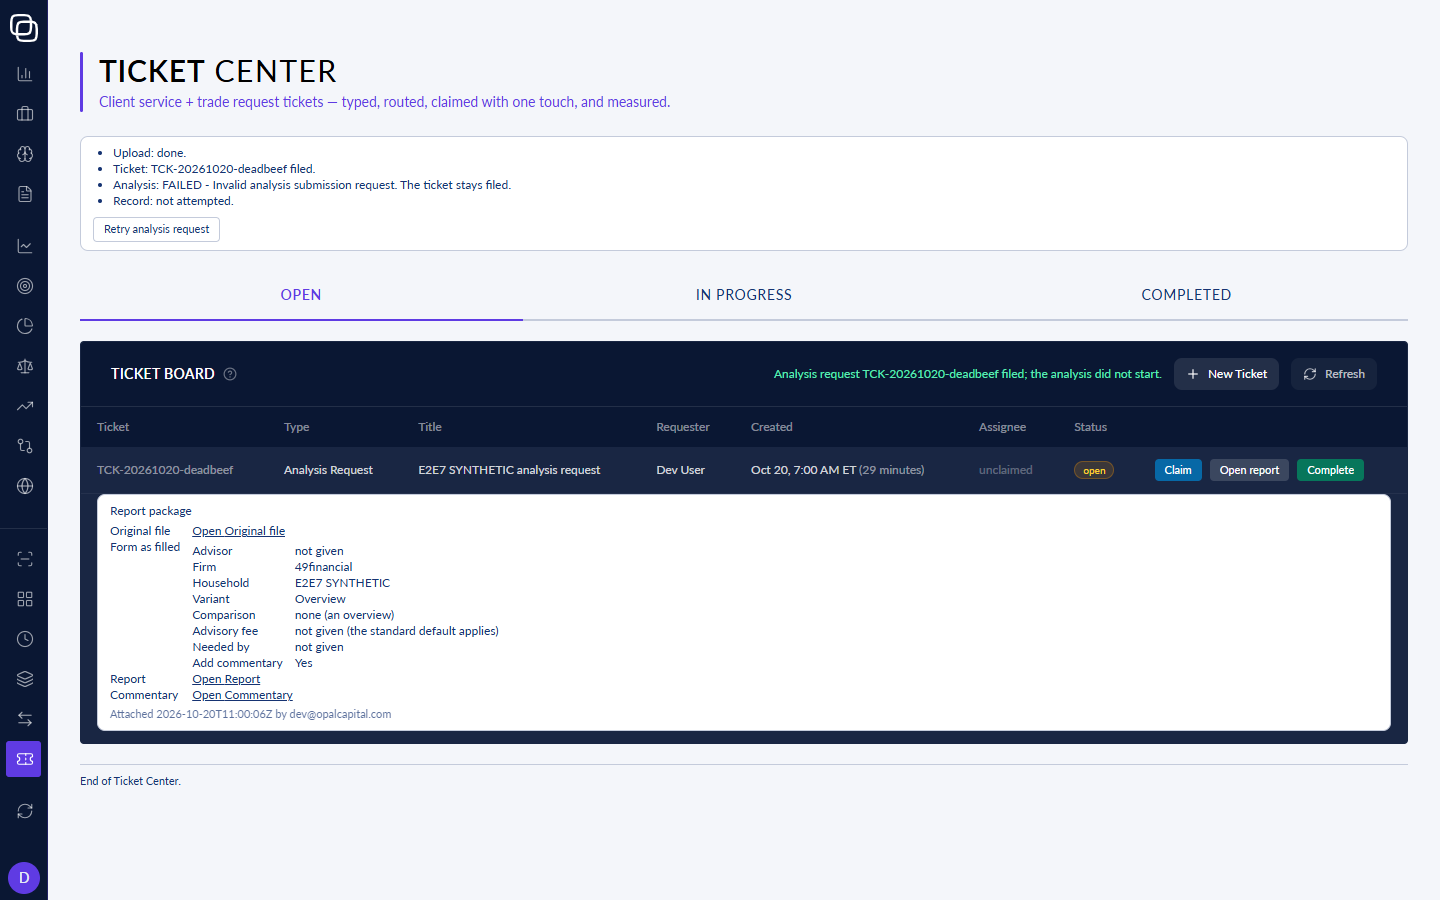
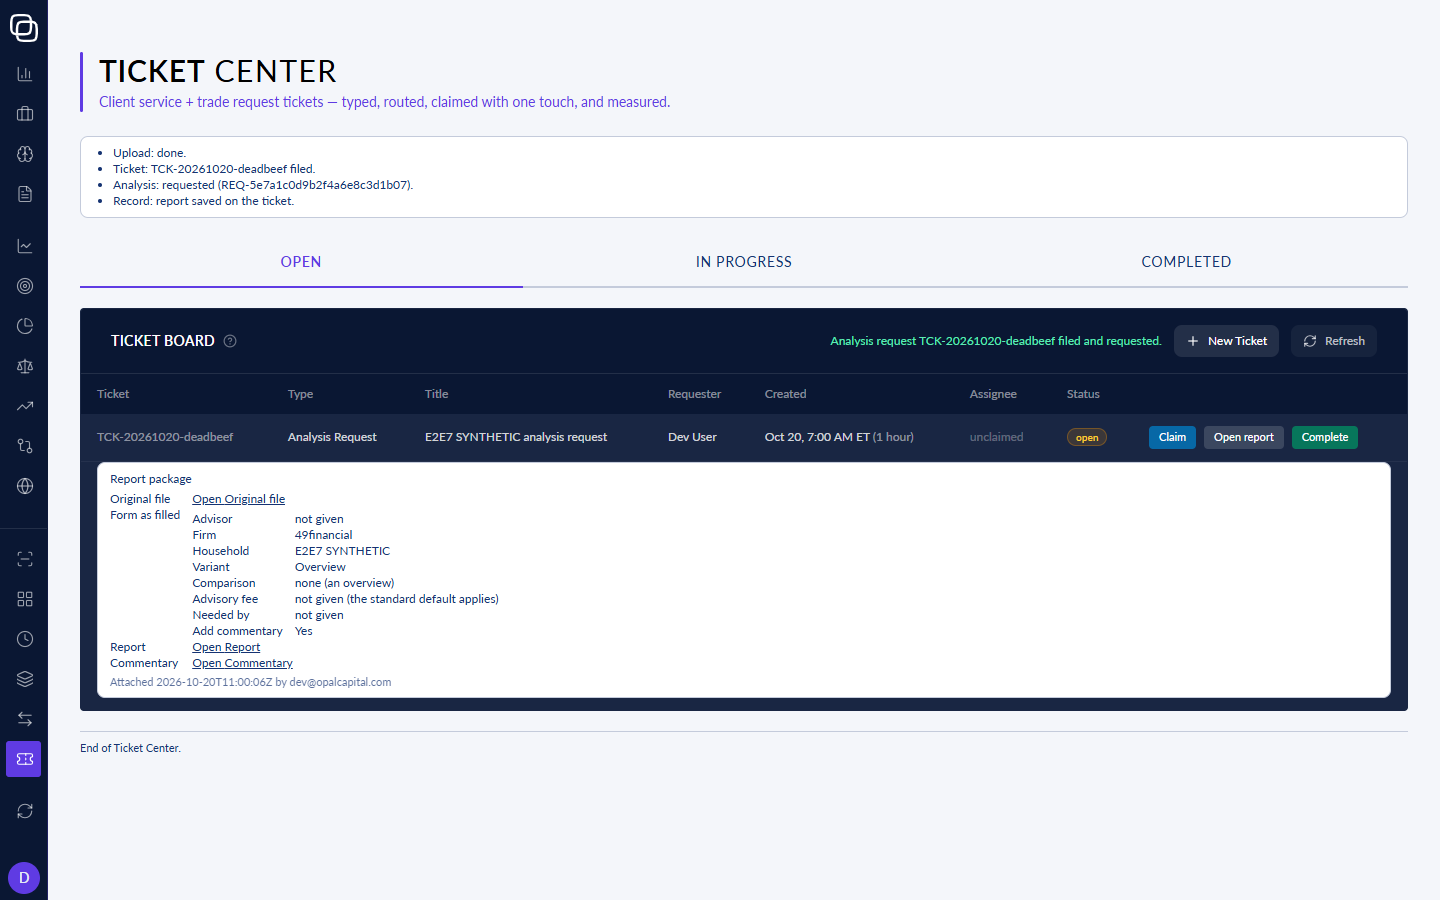
deliverable(IRPT_ANLREQ AR-y-454, 0.9.0_WK_IRPT_ANLREQ~323): rerun the run 7 browser leg against the fix branch e9ca1106dd (the page's analysis submit now sends); composite AC1 OK with four writes, AC2 BAD at b3, leak control 0
Tree: cand/dell2/anlreq-submission-guard-commentary @e9ca1106dd9f85a1f5cb08fa52c89c52a53ed4cd on origin/PROD f48e09ddf95e (numstat: two files). Build RC 0.

Composite: B2 files the ticket and the REQ id, B3 shows the report face (headings 1, value yes). The no-report fixture prints B-LEG-OFFLINE-BAD b3 face=no. Standalone B3 controls agree. Determinism: two runs match after the time mask.

The earlier BEFORE evidence (plain PROD: the page refused the analysis submit) is kept in PAGE_NOTES section 4 item 1.

Push state: LOCAL on wk-IRPT_ANLREQ-323.

Changed region(s): [[0.0312, 0.28, 1.0, 0.8711], [0.0625, 0.1867, 0.3438, 0.28]]

diff --git a/org/missions/D9/IRPT/IRPT_ANLREQ/deliverables/0.9.0_WK_IRPT_ANLREQ~323/PAGE_NOTES.md b/org/missions/D9/IRPT/IRPT_ANLREQ/deliverables/0.9.0_WK_IRPT_ANLREQ~323/PAGE_NOTES.md
@@ -1,23 +1,27 @@
 # PAGE_NOTES -- run 7 browser leg, proved offline (0.9.0_WK_IRPT_ANLREQ~323, cell AR-y-454)
 
-**Read this before the GO.** The page on the PROD tip cannot complete step B2 of ADDENDUM 9 section 2: it files the
-ticket, but it never sends the analysis request. The live run must not be pressed until surprise row
-`IRPT_ANLREQ-D2-W323-S1` (BLOCKING, ARMED) is dispositioned.
+**Read this before the GO.** The proof now runs against the fix branch `cand/dell2/anlreq-submission-guard-commentary`
+at `e9ca1106dd9f85a1f5cb08fa52c89c52a53ed4cd` (one commit on origin/PROD `f48e09ddf95e`), not plain PROD. On plain PROD the
+page cannot complete B2 (surprise `IRPT_ANLREQ-D2-W323-S1`, BLOCKING, ARMED; the issuer owns the disposition). With the
+fix in the tree the offline composite reaches B3 (section 5). The live run must still be pressed only after the fix is
+deployed to PROD.
 
 ## 1. What was built and against what
 
-- Tree: `portal` at `origin/PROD` `f48e09ddf95e` (worktree `C:/dev/wk-irpt-anlreq-323/portal`, node_modules linked).
-- Build: `bun run build` (= `tsc -b && vite build --configLoader runner`), RC 0, 12.35 s. Output in `portal/dist`
-  (gitignored in the portal submodule). Nothing was committed in the portal.
-- Instrument: `run7_browser_leg.mjs` drives the page's own controls with `playwright-core` (Edge, headless) against
-  the build served from disk. It copies `serveFromDist` from `portal/scripts/ui-dist.mjs` and imports nothing else
-  from the portal tree. `--token-file` sends a real bearer as the session accessToken, the way ui-smoke `--token` does.
-- Offline: no network, no AWS, no push, no deploy. Every API answer is in `fixtures_offline.json` (synthetic:
-  household `E2E7 SYNTHETIC`, tickers `SYNTH-*`, values such as 12.5, request and ticket ids of the cell's shapes).
-- Output contract: stdout carries closed lines only (B1, B2, B3, CALLS, B-LEG-*). No URL, token, header or file
-  content is printed. `RUN7_DEBUG=1` adds page console lines and must not be set for the live run.
+- Tree: the portal worktree `C:/dev/wk-irpt-anlreq-323/portal`, detached at `e9ca1106dd` (read-only; nothing committed
+  there). `git diff --numstat f48e09ddf95e HEAD` lists exactly two files: `src/pages/InvestorReporting/contracts/submission-request.ts`
+  (+2 -1) and `src/pages/InvestorReporting/__tests__/submission-request.test.ts` (+40 -0).
+- Build: `bun run build` (= `tsc -b && vite build --configLoader runner`), RC 0, 11.71 s. Output in `portal/dist`
+  (gitignored in the portal submodule).
+- Instrument: `run7_browser_leg.mjs` drives the page's own controls with `playwright-core` (Edge, headless) against the
+  build served from disk. It copies `serveFromDist` from `portal/scripts/ui-dist.mjs` and imports nothing else from the
+  portal tree. `--token-file` sends a real bearer as the session accessToken, the way ui-smoke `--token` does.
+- Offline: no network, no AWS, no push, no deploy. Every API answer is in `fixtures_offline.json` (synthetic: household
+  `E2E7 SYNTHETIC`, tickers `SYNTH-*`, values such as 12.5, request and ticket ids of the cell's shapes).
+- Output contract: stdout carries closed lines only (B1, B2, B3, CALLS, B-LEG-*). No URL, token, header or file content
+  is printed. `RUN7_DEBUG=1` adds page console lines and must not be set for the live run.
 
-## 2. Accessible names (read at f48e09dd)
+## 2. Accessible names (read at e9ca1106; unchanged from f48e09dd)
 
 | step | control | accessible name / selector | source |
 |---|---|---|---|
@@ -40,64 +44,73 @@ The run7 script finds: `New Ticket`, the analysis type select (by its option val
 `Household`, the title by placeholder, `Holdings file`, `File Analysis Request` (exact), `button[data-slot="open-report"]`
 on the row whose text holds the ticket id, and `[data-slot="opened-report"]`. A missing control exits `B-LEG-BAD <phase>`.
 
-## 3. Call sequence observed offline (f48e09dd, fixtures_offline.json)
+## 3. Call sequence observed offline (e9ca1106, fixtures_offline.json)
 
 Board load (shell and board, before any form):
 `GET /api/scoped/tickets?status=open`, `GET /api/scoped/tickets/metrics`, and shell reads (`GET /api/scoped/portal-content`,
 `GET /api/scoped/advisor-intelligence/platinum/firm/*.json`), which the CALLS lines show and which are not the form.
 
-Form open (staff): `POST /api/scoped/investor-reporting/directory/resolve` (Global context, read when the form opens;
-read again on a re-render). The model catalogue is a static list: no call (AR-y-419). `GET .../analysis/comparisons` is
-read only when Other ETFs is typed; not exercised.
+Form open (staff): `POST /api/scoped/investor-reporting/directory/resolve` (Global context, read when the form opens).
+The model catalogue is a static list: no call (AR-y-419). `GET .../analysis/comparisons` is read only when Other ETFs is
+typed; not exercised.
 
-B2 filing, as the page makes it:
-1. `POST /api/scoped/investor-reporting/analysis/inputs` (upload; answer NORMALIZED). Observed.
-2. `POST /api/scoped/tickets` (ticket create, source `ticketcenter:i1`). Observed; the ticket id comes back.
-3. `POST /api/scoped/investor-reporting/analysis` (analysis submit). **NOT sent on f48e09dd** (surprise S1). The page
-   shows `Analysis: FAILED - Invalid analysis submission request.` and the ticket stays filed with no report.
-4. `POST /api/scoped/tickets/{id}/report` (record the REQ id on the ticket). Not reached.
+B2 filing, as the page makes it (the four writes, in order; the composite's `b2_calls` names them):
+1. `POST /api/scoped/investor-reporting/analysis/inputs` (upload; answer NORMALIZED). `analysis-input-upload`.
+2. `POST /api/scoped/tickets` (ticket create, source `ticketcenter:i1`). `ticket-create`.
+3. `POST /api/scoped/investor-reporting/analysis` (analysis submit, body with `commentary_requested: true`; the guard now
+   admits it). `analysis-request`. Answer: the REQ id, read into the B2 line.
+4. `POST /api/scoped/tickets/{id}/report` (record the REQ id on the ticket). `ticket-report`.
 
 B3 (Open report): `GET /api/scoped/investor-reporting/analysis/{requestId}/sections?selected_tenant=..&ticket_id=..`.
-Observed in the positive standalone control; answered by the fixture.
 
 ## 4. Where the page differs from ADDENDUM 9 section 2 (the issuer reads these before the GO)
 
-1. **B2 analysis step (BLOCKING, surprise S1).** The addendum says the page performs the upload and the analysis
-   request. On f48e09dd it performs the upload and the ticket create, then refuses the analysis submit client-side:
-   `analysisBody` adds `commentary_requested: true`, and `readSubmissionRequest` admits only the required keys plus
-   `input_id` and `ticket_id`. The ticket is filed with no REQ id, no report_ref, and therefore no Open report control
-   for B3. The Retry analysis request path calls the same submit (read from source; not exercised live). Under the
-   addendum's own terms this is a STOP at B2 naming the page's words.
-2. **Four writes, not three (surprise S2).** upload, ticket create, analysis submit, and the record of the report id on
-   the ticket (`POST .../tickets/{id}/report`). The composite prints the names the page actually makes.
-3. **No Keep control (surprise S3).** The symbol hint presses are `Yes`, `Replace` and `No`. The addendum's "no Keep"
-   means no press of a hint control. These offline fixtures never produce a finding, so no hint control was shown.
+1. **B2 analysis step: defect found, fixed on the branch (surprise S1, BLOCKING, ARMED; disposition the issuer's).**
+   ADDENDUM 9 says the page performs the upload and the analysis request. On plain PROD (f48e09ddf95e) it did the upload
+   and the ticket create, then refused the analysis submit client-side. Before the fix, the run's B2 line and page words
+   were (kept as evidence):
+   `B2 filed ok ticket=TCK-20261020-deadbeef req=none at=11:28:56Z` followed by
+   `B-LEG-OFFLINE-BAD b2 the ticket is filed but the analysis request was not sent the page showed Analysis FAILED - Invalid analysis submission request`.
+   The CALLS lines held `POST .../analysis/inputs` and `POST /api/scoped/tickets` only. Cause: `analysisBody` (analysisRequest.ts 651-667)
+   adds `commentary_requested: true`, and `readSubmissionRequest` (contracts/submission-request.ts) admitted only the
+   required keys plus `input_id` and `ticket_id`, so the TypeError refused the body before any POST. The ticket was filed with
+   no REQ id, no report_ref and therefore no Open report control for B3.
+   After the fix (e9ca1106: the allowed set gains `commentary_requested`, and a non-boolean value is refused): the analysis
+   submit is sent, B2 reads `req=REQ-5e7a1c0d9b2f4a6e8c3d1b07`, the record POST is made, and B3 finds the Open report
+   control. The Retry analysis request path calls the same submit and is fixed by the same change (by reading).
+2. **Four writes, not three (surprise S2).** upload, ticket create, analysis submit, and the record of the report id on the
+   ticket (`POST .../tickets/{id}/report`). The composite prints the four names the page actually makes:
+   `b2_calls=analysis-input-upload,ticket-create,analysis-request,ticket-report`.
+3. **No Keep control (surprise S3).** The symbol hint presses are `Yes`, `Replace` and `No`. The addendum's "no Keep" means
+   no press of a hint control. These offline fixtures never produce a finding, so no hint control was shown.
 4. **Submit label.** The press is `File Analysis Request`; the addendum's word "submit" is the same control.
-5. **New Ticket defaults to Service Request for staff.** The operator chooses Analysis Request first (the addendum says
-   the same, so this is a note, not a difference).
+5. **New Ticket defaults to Service Request for staff.** The operator chooses Analysis Request first (the addendum says the
+   same, so this is a note, not a difference).
 6. **Advisor.** Labelled optional for staff through the placeholder `Advisor (optional)`: matches B1.
 7. **No report-type and no commentary control on the form.** Matches B1 (report_type=absent, commentary=absent).
-8. **Firm chooser.** Lists three firms in the offline run: `49 Financial`, `Cottonwood Capital Advisors`,
-   `Inflection Wealth Management` (the labels come from `firmDisplayNameFor` because the fixture scope names none).
-   The PROD labels may differ; not checked live.
+8. **Firm chooser.** Lists three firms offline: `49 Financial`, `Cottonwood Capital Advisors`, `Inflection Wealth Management`
+   (the labels come from `firmDisplayNameFor` because the fixture scope names none). The PROD labels may differ; not
+   checked live.
 9. **Models.** Five at first paint (static list, no call). Matches B1.
 10. **Holdings bytes.** The page reads the file in the browser and sends its bytes in the upload body. The addendum's
     "sha256 printed" is the operator's step: this script prints no file content and no hash.
-11. **B3 needs report_ref.** Open report exists only on a ticket that carries a report_ref. Because of S1, a live B3 on
-    the ticket of this run would find no control and exit `B-LEG-BAD b3`.
+11. **B3 needs report_ref.** Open report exists only on a ticket that carries a report_ref, which the record step sets. On
+    plain PROD (surprise S1) a live B3 would find no control; on the fix branch it does.
 12. **Fixture simplification.** The board list answer is static: it carries the finished ticket (with report_ref and a
     package map of four refs) in every phase, so B1 and B2 also show that ticket. The live board will not.
 
-## 5. Offline results at the time of writing (see the proof instance for the verdicts)
+## 5. Offline results on e9ca1106 (see the proof instance for the verdicts)
 
-- B1 (offline): `B1 form labels=12 advisor=optional report_type=absent commentary=absent firms=3 models=5`.
-- B2 (offline): `B2 filed ok ticket=TCK-20261020-deadbeef req=none` then `B-LEG-OFFLINE-BAD b2 ... analysis request was not sent`.
-- B3 positive (standalone, fixtures_offline.json): `B3 report face=yes headings=1 value=yes`, RC 0.
-- B3 difference control (standalone, fixtures_offline_noreport.json): `B3 report face=no headings=0 value=no`,
+- AC1 composite (RC 0): `B1 form labels=12 advisor=optional report_type=absent commentary=absent firms=49 Financial,Cottonwood Capital Advisors,Inflection Wealth Management models=5`;
+  `B2 filed ok ticket=TCK-20261020-deadbeef req=REQ-5e7a1c0d9b2f4a6e8c3d1b07 at=12:05:16Z`; `B3 report face=yes headings=1 value=yes`;
+  final `B-LEG-OFFLINE-OK b1_labels=12 advisor=optional report_type=absent commentary=absent firms=3 models=5 b2_calls=analysis-input-upload,ticket-create,analysis-request,ticket-report b3_face=yes`.
+- AC2 composite (RC 1): the same B1 and B2 lines, `B3 report face=no headings=0 value=no`, final
+  `B-LEG-OFFLINE-BAD b3 face=no headings=0 value=no`.
+- B3 standalone positive (fixtures_offline.json): `B3 report face=yes headings=1 value=yes`, RC 0.
+- B3 standalone difference control (fixtures_offline_noreport.json): `B3 report face=no headings=0 value=no`,
   `B-LEG-BAD b3 face=no`, RC 1.
-- The composite AC2 with the no-report fixture stops at B2 (`B-LEG-OFFLINE-BAD b2`), not at b3, for the same reason as
-  item 1. The composite therefore cannot reach its b3 difference control until the analysis submit sends.
-- Determinism: two composite runs agree line for line after the `at=` time is masked (26 lines).
+- Determinism: two composite runs agree line for line after the `at=` time is masked (38 lines).
+- Leak control: the AC3 grep (token-shaped run, web-address prefix, bearer prefix) over PAGE_NOTES.md and OFFLINE_STDOUT.txt prints 0.
 
 ## 6. Files
 
